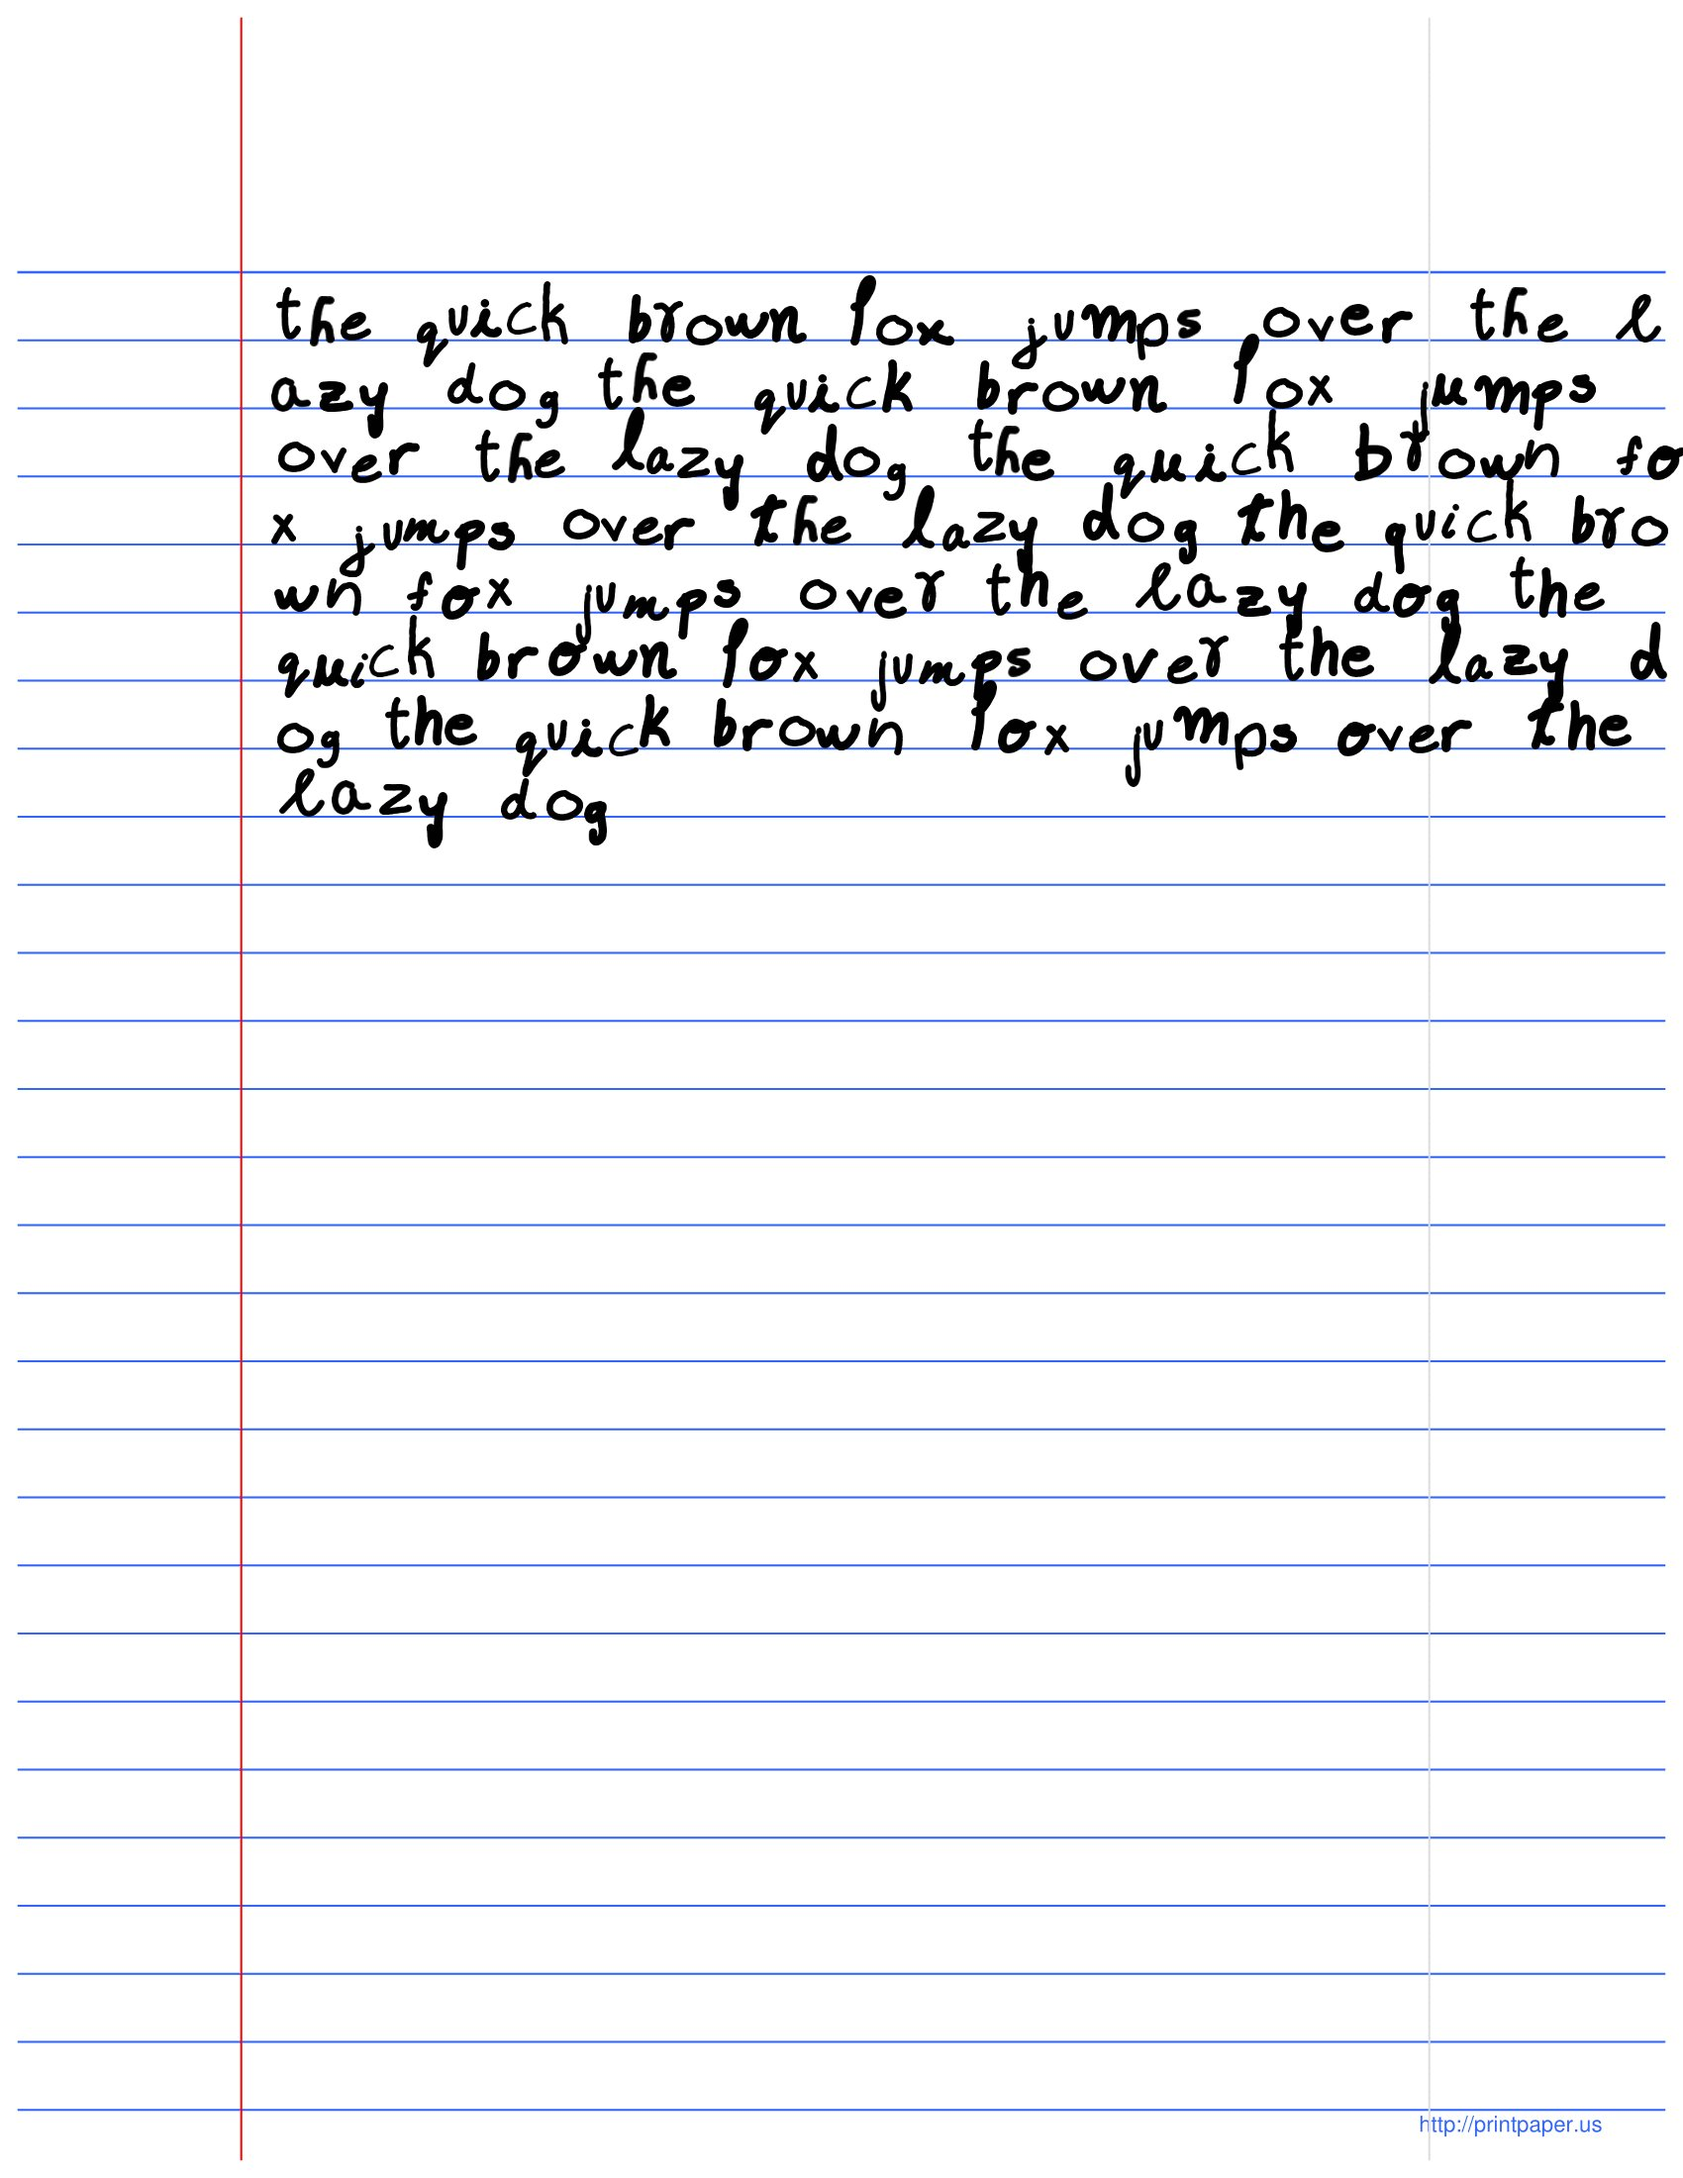
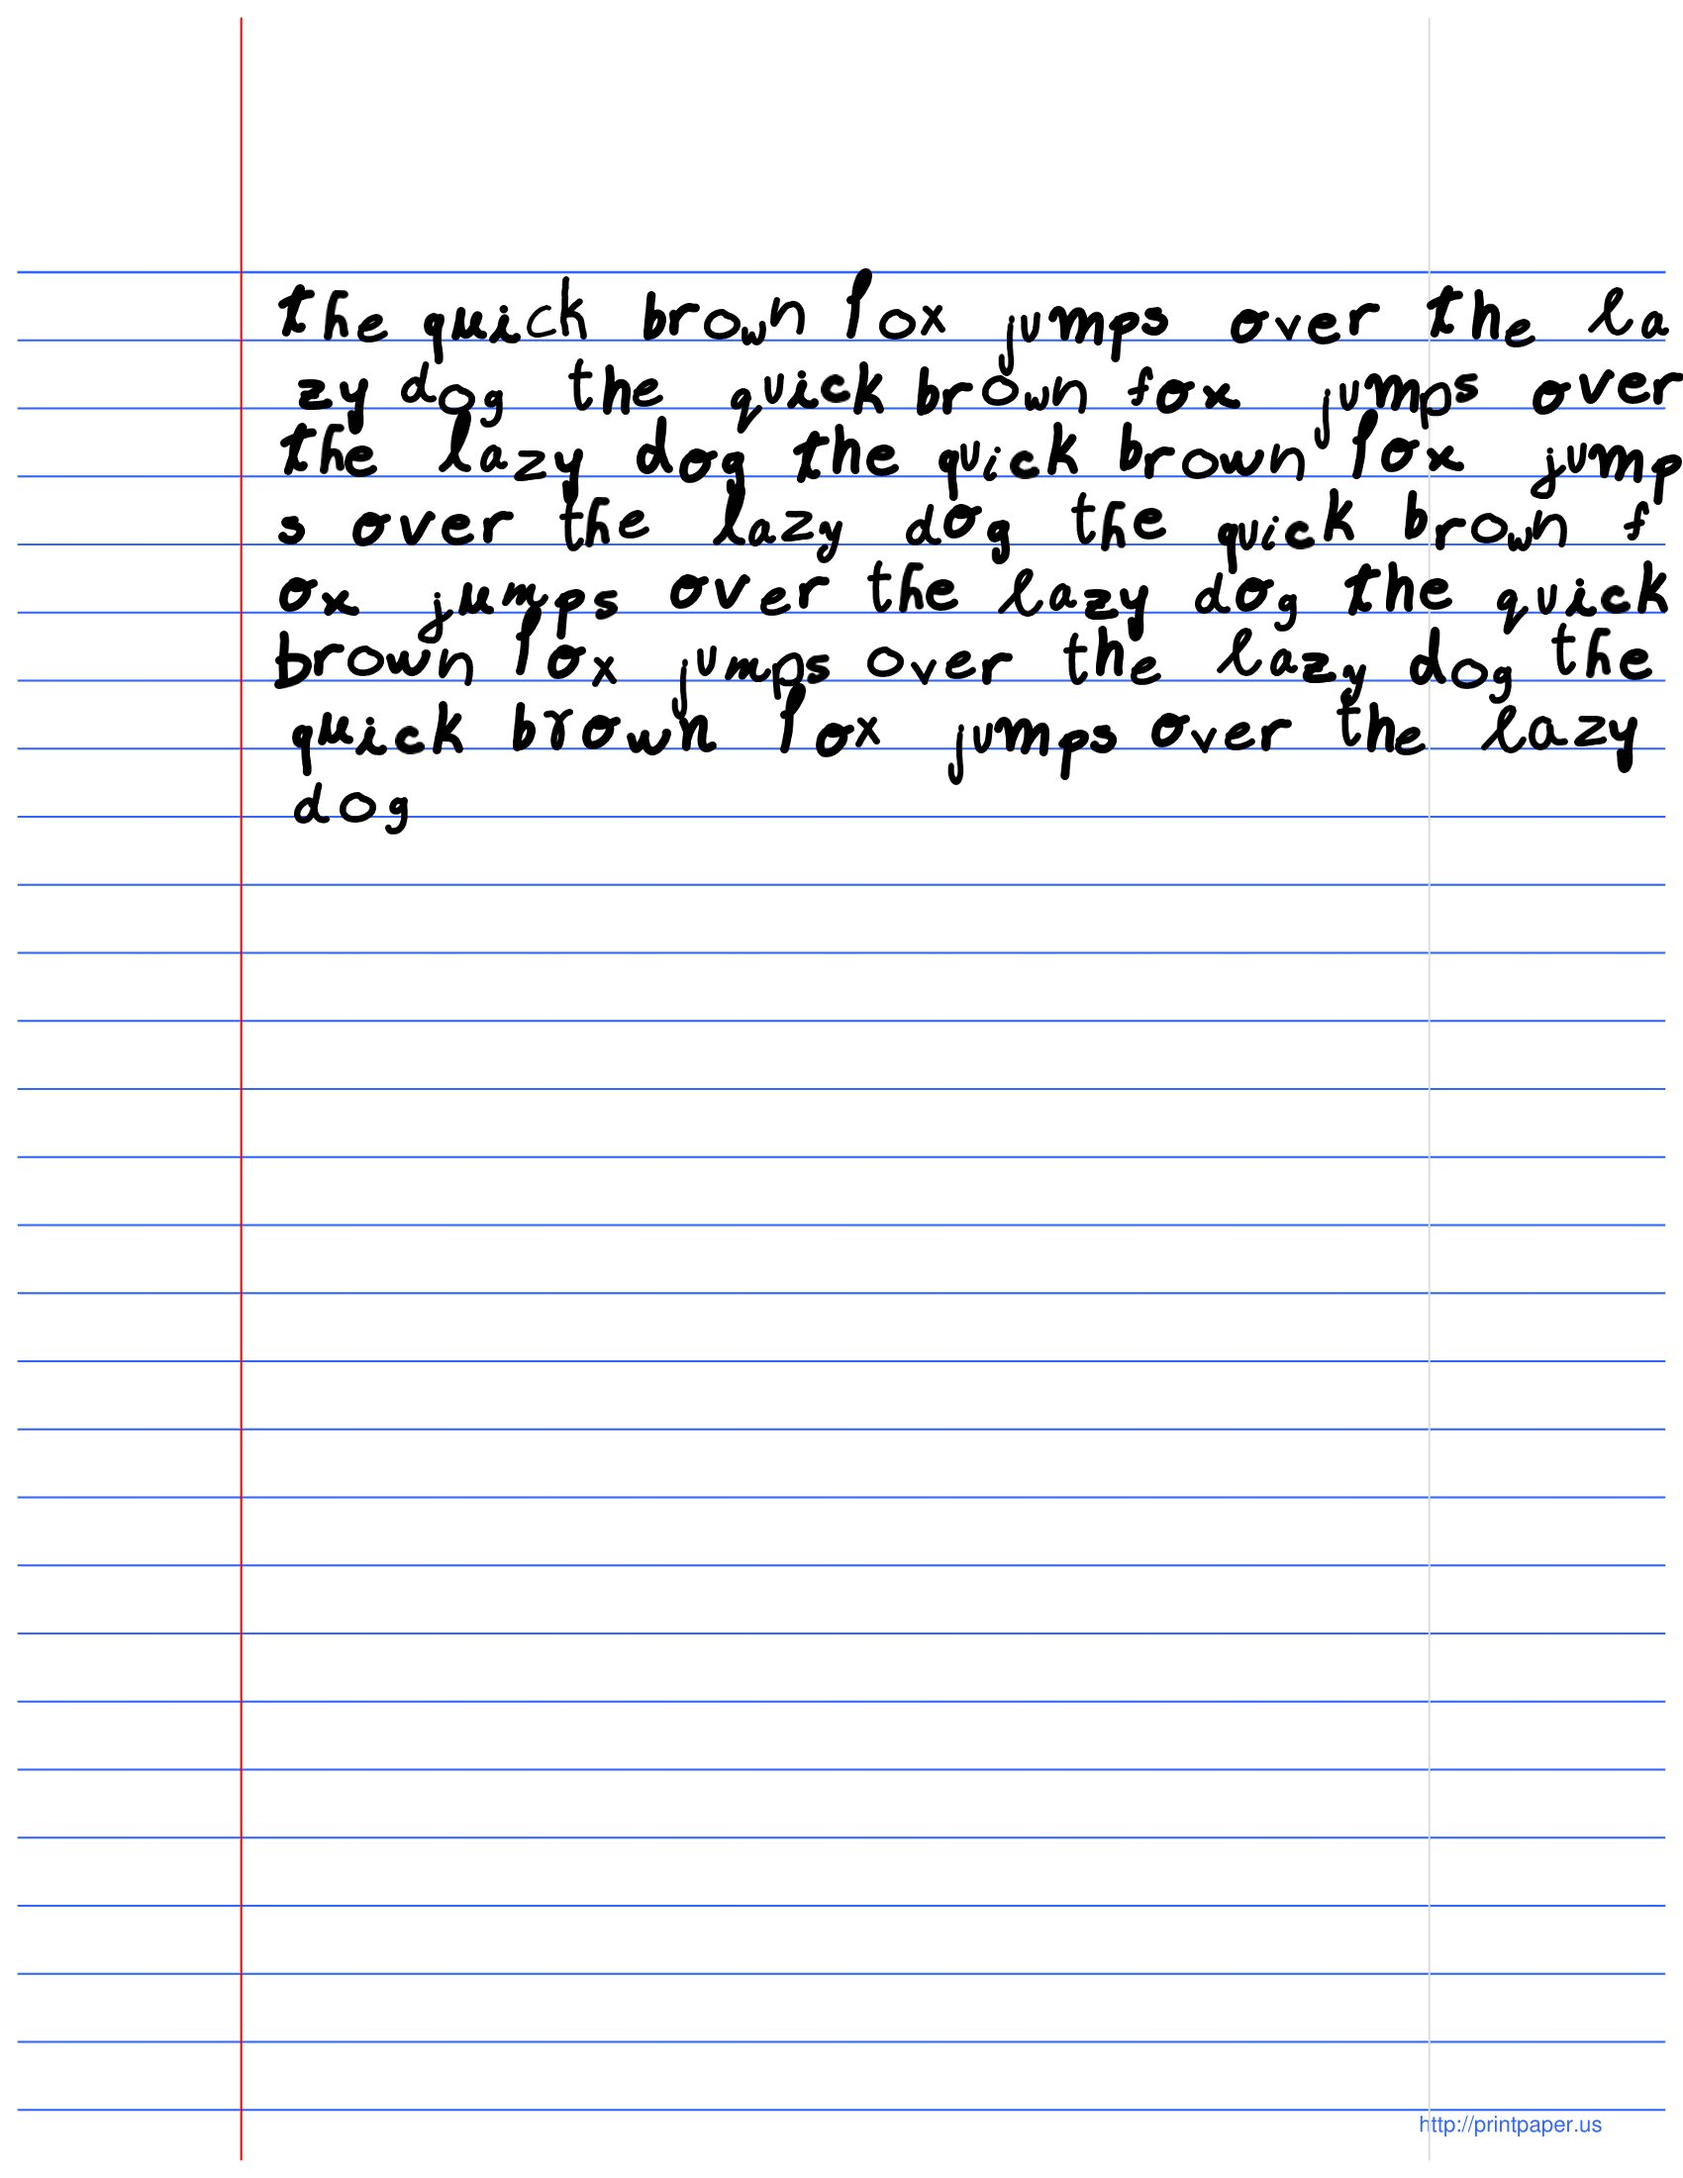
randomMargins

Changed region(s): [[0.1559, 0.1236, 1.0, 0.4018]]

diff --git a/main.py b/main.py
@@ -32,6 +32,7 @@ def displaySentence(canvas, sentence, alphabetDict0, alphabetDict1):
 	currentLine = 0
 
 	for char in list(sentence):
+			
 		#Pick a random dict to use for this specific char
 		dictNum = random.randint(0, 1)
 		if(dictNum == 0):
@@ -47,6 +48,9 @@ def displaySentence(canvas, sentence, alphabetDict0, alphabetDict1):
 
 				#Reset spacing
 				collectiveSpacing = 0
+
+				#add random margin on new line
+				collectiveSpacing += random.uniform(0, 20)
 
 			#Align to bottom of line and keep even spacing and varying height, also check if our char can go below line
 			offCenterChar = 0
